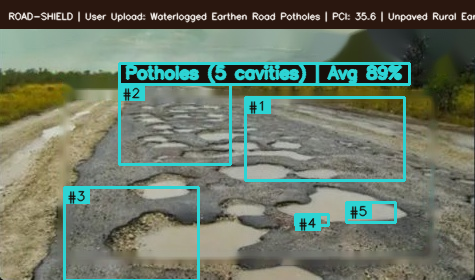
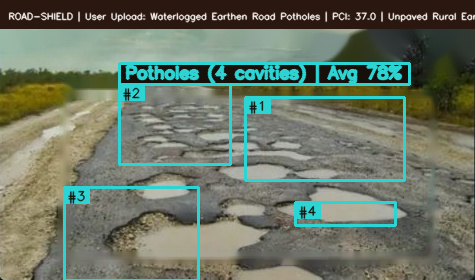
fix(vision): unify cavity rims across aggregate basins, enforce ASTM D6433 minimum pothole dimensions, and suppress vehicle shadows

diff --git a/pipeline/deep_inference_pipeline.py b/pipeline/deep_inference_pipeline.py
@@ -1217,6 +1217,21 @@ class DeepInferencePipeline:
                         if iou >= 0.15 or containment >= 0.25:
                             is_merge = True
 
+                    if not is_merge:
+                        gap_x = max(0, xi0 - xi1) if xi0 > xi1 else 0
+                        gap_y = max(0, yi0 - yi1) if yi0 > yi1 else 0
+
+                        # Same-cavity basin cohesion:
+                        # 1. Merge left & right rims of the SAME cavity across an interior aggregate/water basin (horizontal)
+                        # 2. Merge top & bottom lip of the SAME cavity across vertical rim contact (vertical gap <= 8px)
+                        max_w = int(W * 0.75) if comb_y1 >= int(0.65 * H) else int(W * 0.50)
+                        is_rim_contact = (
+                            (gap_y <= 15 and gap_x <= int(W * 0.16) and inter_h >= int(0.20 * min(h1, h2))) or
+                            (gap_y <= 8 and inter_w >= int(0.40 * min(w1, w2)))
+                        )
+                        if is_rim_contact and comb_w <= max_w and comb_h <= int(H * 0.45):
+                            is_merge = True
+
                     if is_merge:
                         wa, wb = a[8] or 0.0, b[8] or 0.0
                         mp = round((a[7] * wa + b[7] * wb) / (wa + wb), 4) if (wa + wb) > 0 else max(a[7], b[7])
@@ -1342,12 +1357,29 @@ class DeepInferencePipeline:
     def _classify_region(self, img_np, gray, bbox, W, H, mean_intensity):
         """Classify candidate region and compute physical dimensions."""
         bx, by, bw, bh = bbox[:4]
-        cx, cy = bx + bw // 2, by + bh // 2
-        cw = max(96, int(round(bw * 1.30)))
-        ch = max(96, int(round(bh * 1.30)))
-        x0 = max(0, min(W - cw, cx - cw // 2))
-        y0 = max(0, min(H - ch, cy - ch // 2))
-        crop = img_np[y0:min(H, y0 + ch), x0:min(W, x0 + cw)]
+        kind = bbox[5] if len(bbox) > 5 else 2
+        if kind == 2:
+            # ASTM D6433 minimum physical dimensions: reject micro-slivers and sub-scale scuffs
+            if bh < 18 or bw < 22 or (bh < 22 and bw / float(max(1, bh)) > 2.8):
+                return None
+            if (bw * bh) < int(0.003 * W * H):
+                return None
+
+        # Check vehicle exclusion mask
+        obj_m = getattr(self, "_object_mask", None)
+        if obj_m is not None:
+            sub_obj = obj_m[by:by + bh, bx:bx + bw]
+            if sub_obj.size and (float(sub_obj.sum()) / float(sub_obj.size)) > 0.20:
+                return None
+
+        # Proportional context margin: 15% padding, bounded so it never reaches into distant defects
+        mx = max(8, int(bw * 0.15))
+        my = max(8, int(bh * 0.15))
+        x0 = max(0, bx - mx)
+        y0 = max(0, by - my)
+        x1 = min(W, bx + bw + mx)
+        y1 = min(H, by + bh + my)
+        crop = img_np[y0:y1, x0:x1]
         if crop.size == 0:
             crop = img_np[by : by + bh, bx : bx + bw]
         if crop.size == 0:
